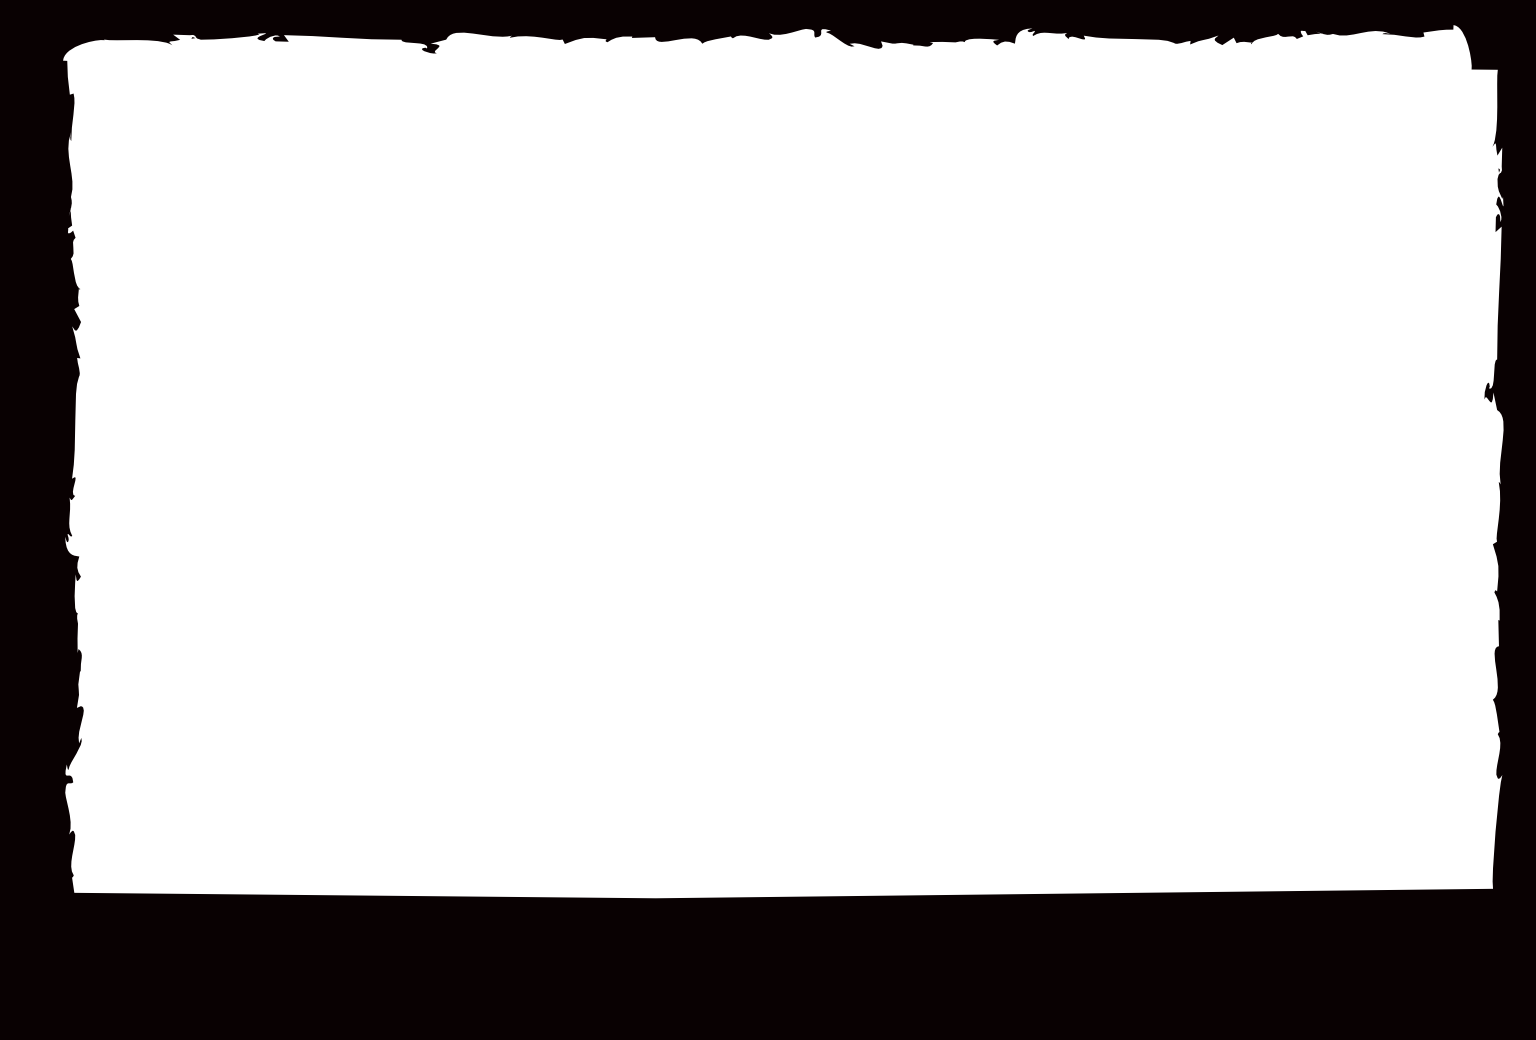
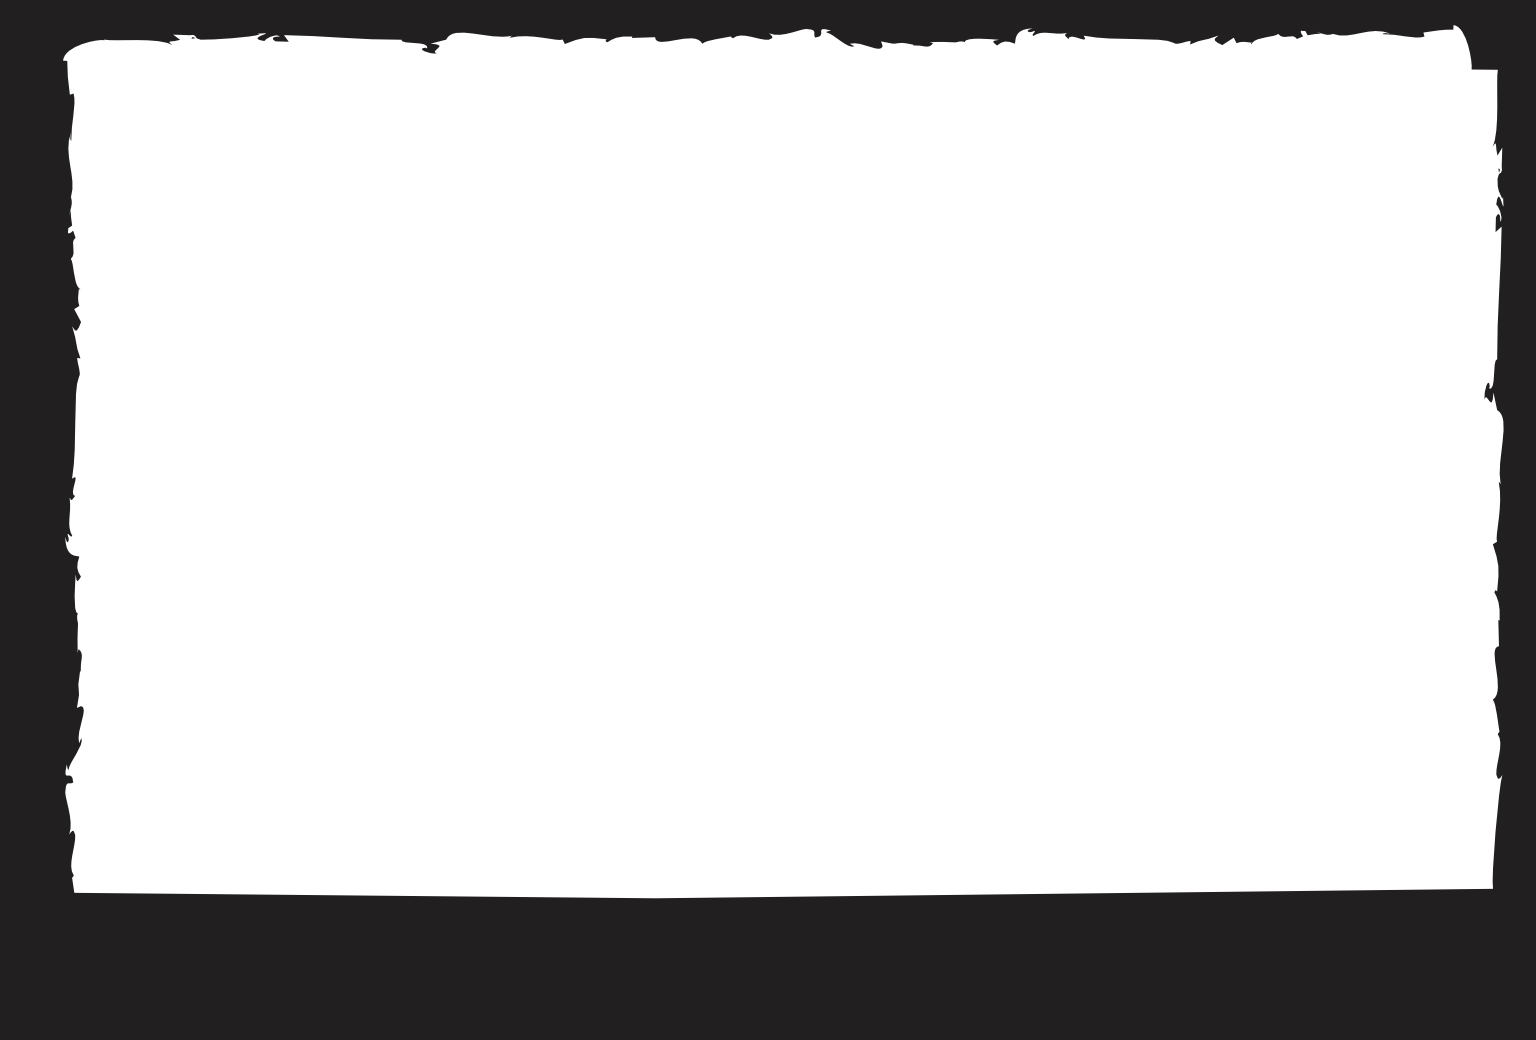
fixed color of border image file

Changed region(s): [[0.0, 0.0, 1.0, 1.0]]

diff --git a/villain-character-card/script.js b/villain-character-card/script.js
@@ -200,15 +200,13 @@ function drawBorder() {
       canvas.width - setupBorderOffset, canvas.height
     );
 
+    // Fill in the gaps that borderYFix and setupBorderOffset make
+    ctx.fillStyle = colorBlack;
     // Add a bit of overlap just to make sure there's not a thin gap between the border and the fill-in
     const overlap = pw(0.5);
-
-    // Fill in the gap that borderYFix makes
-    ctx.fillStyle = 'black';
+    // borderYFix
     ctx.fillRect(0, 0, canvas.width, borderYFix + overlap);
-
-    // Fill in the gap that setupBorderOffset makes
-    ctx.fillStyle = 'black';
+    // setupBorderOffset
     ctx.fillRect(0, 0, setupBorderOffset + overlap, canvas.height);
   }
 }
